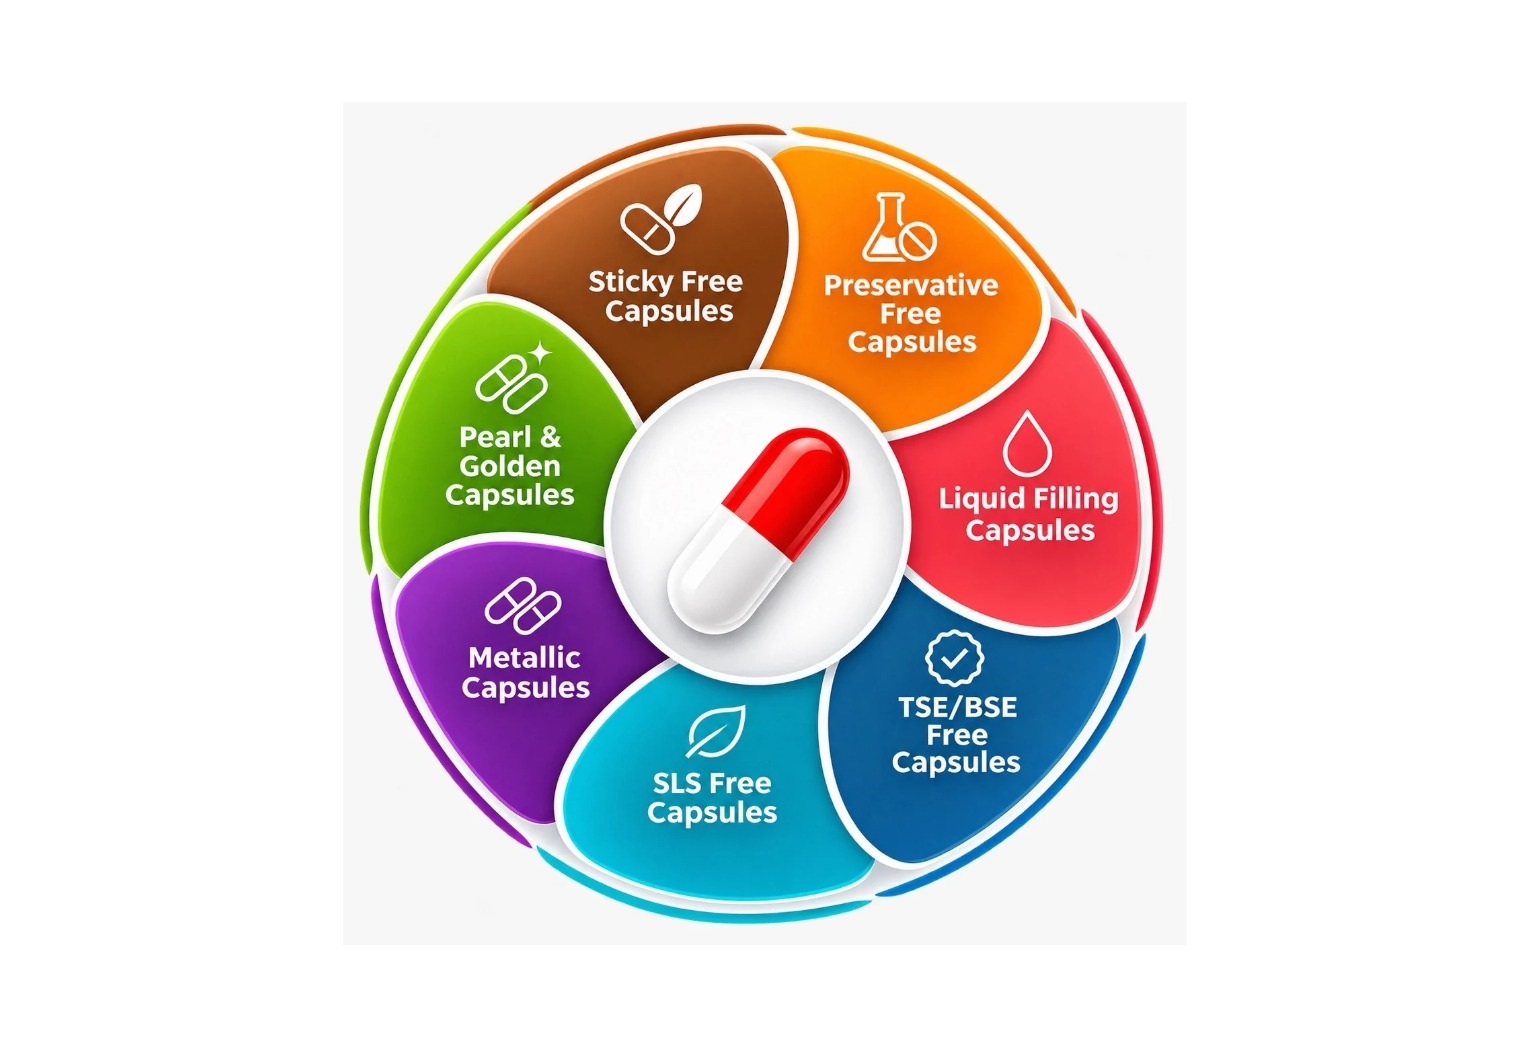
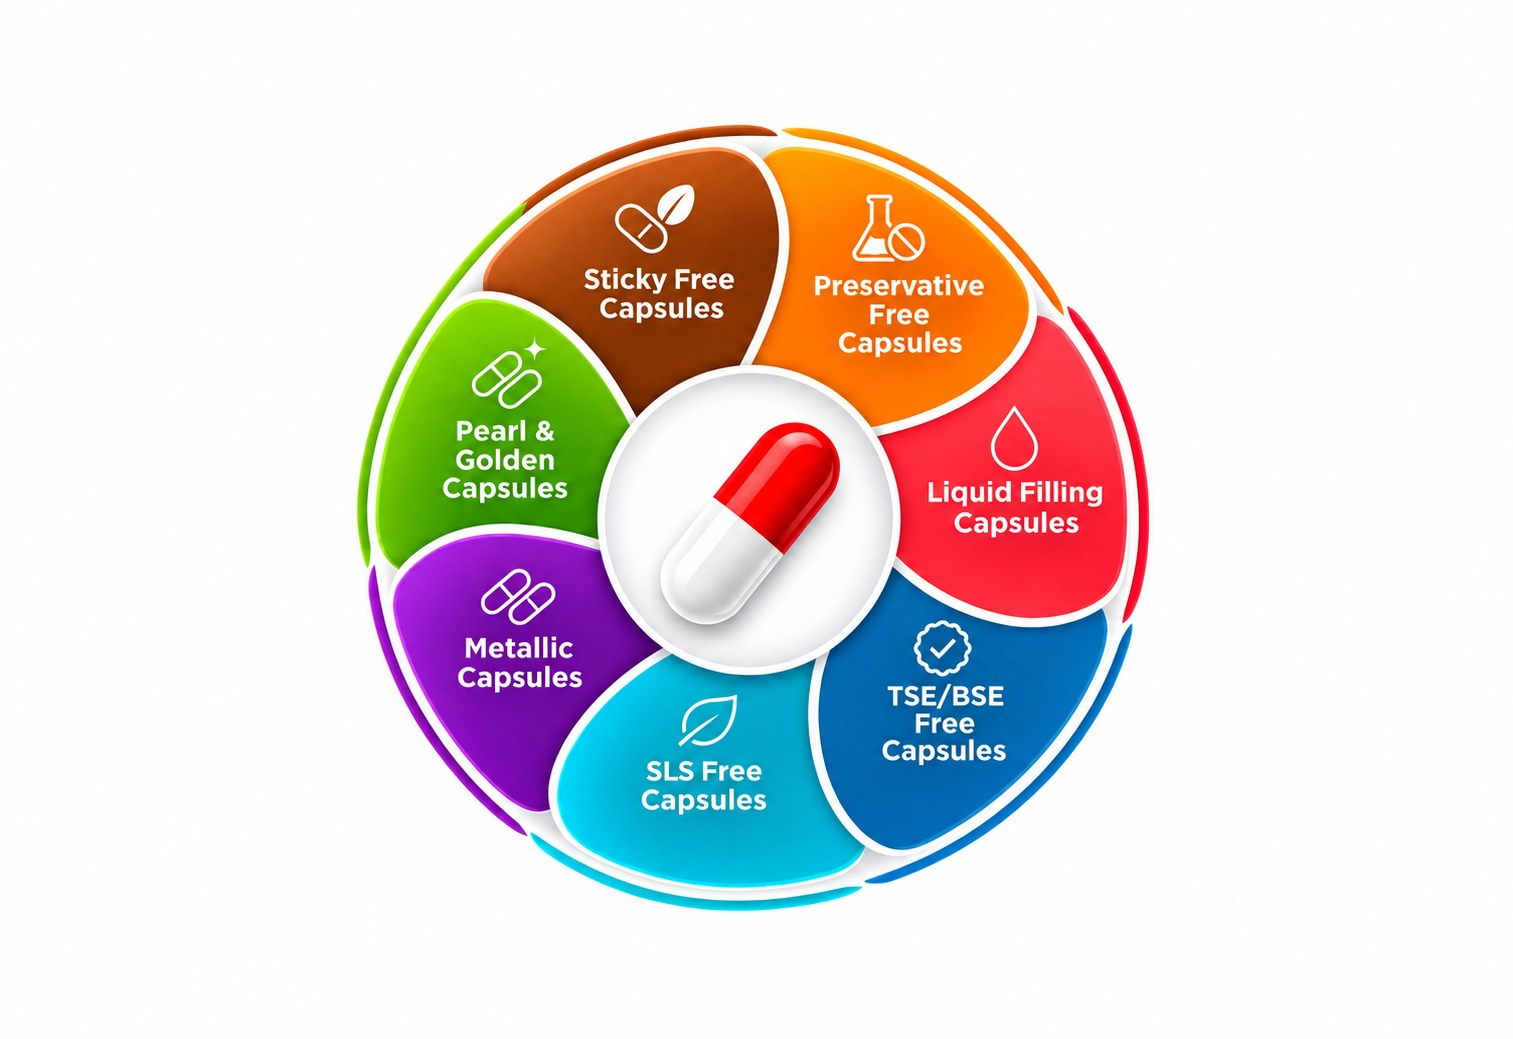
first commit

diff --git a/index-banner-4.html b/index-banner-4.html
@@ -499,7 +499,7 @@ requestAnimationFrame(tick);
           <div class="facility-video__overlay"></div>
 
           <!-- Center: Play Button with Direct YouTube Link -->
-          <a class="facility-video__play-link" href="https://www.youtube.com/watch?v=9Zb0B9ABYlw" data-open-modal="modalFacilityVideo" data-video-src="https://www.youtube.com/embed/9Zb0B9ABYlw?autoplay=1&rel=0" aria-label="Play Erawat Capsule Manufacturing Video">
+          <a class="facility-video__play-link" href="https://www.youtube.com/watch?v=9Zb0B9ABYlw" data-open-modal="modalFacilityVideo" data-video-src="https://www.youtube.com/embed/9Zb0B9ABYlw?si=NDvobKFWEKUeato7&autoplay=1" aria-label="Play Erawat Capsule Manufacturing Video">
             <span class="play-ripple" aria-hidden="true"></span>
             <span class="play-ripple play-ripple--2" aria-hidden="true"></span>
             <span class="play-btn-circle">
@@ -753,11 +753,7 @@ requestAnimationFrame(tick);
       <button type="button" class="modal-close-btn" data-close-modal aria-label="Close video modal">&times;</button>
       <h3 class="sr-only" id="facilityVideoModalTitle" style="position:absolute;width:1px;height:1px;overflow:hidden;clip:rect(0,0,0,0);white-space:nowrap;">Erawat Capsule Manufacturing Video</h3>
       <div class="video-modal__frame">
-        <iframe id="facilityVideoIframe" title="Erawat Pharma Limited — State-of-the-Art Capsule Manufacturing" src="" data-src="https://www.youtube.com/embed/9Zb0B9ABYlw?autoplay=1&rel=0" allow="accelerometer; autoplay; clipboard-write; encrypted-media; gyroscope; picture-in-picture; web-share" referrerpolicy="strict-origin-when-cross-origin" allowfullscreen></iframe>
-      </div>
-      <div class="video-modal__bar">
-        <span>Erawat Pharma Limited &mdash; Capsule Manufacturing Video</span>
-        <a class="video-modal__ext" href="https://www.youtube.com/watch?v=9Zb0B9ABYlw" target="_blank" rel="noopener noreferrer">Watch on YouTube &nearr;</a>
+        <iframe id="facilityVideoIframe" width="560" height="315" src="" data-src="https://www.youtube.com/embed/9Zb0B9ABYlw?si=NDvobKFWEKUeato7&autoplay=1" title="YouTube video player" frameborder="0" allow="accelerometer; autoplay; clipboard-write; encrypted-media; gyroscope; picture-in-picture; web-share" referrerpolicy="strict-origin-when-cross-origin" allowfullscreen></iframe>
       </div>
     </div>
   </div>

diff --git a/index-banner4.html b/index-banner4.html
@@ -499,7 +499,7 @@ requestAnimationFrame(tick);
           <div class="facility-video__overlay"></div>
 
           <!-- Center: Play Button with Direct YouTube Link -->
-          <a class="facility-video__play-link" href="https://www.youtube.com/watch?v=9Zb0B9ABYlw" data-open-modal="modalFacilityVideo" data-video-src="https://www.youtube.com/embed/9Zb0B9ABYlw?autoplay=1&rel=0" aria-label="Play Erawat Capsule Manufacturing Video">
+          <a class="facility-video__play-link" href="https://www.youtube.com/watch?v=9Zb0B9ABYlw" data-open-modal="modalFacilityVideo" data-video-src="https://www.youtube.com/embed/9Zb0B9ABYlw?si=NDvobKFWEKUeato7&autoplay=1" aria-label="Play Erawat Capsule Manufacturing Video">
             <span class="play-ripple" aria-hidden="true"></span>
             <span class="play-ripple play-ripple--2" aria-hidden="true"></span>
             <span class="play-btn-circle">
@@ -753,11 +753,7 @@ requestAnimationFrame(tick);
       <button type="button" class="modal-close-btn" data-close-modal aria-label="Close video modal">&times;</button>
       <h3 class="sr-only" id="facilityVideoModalTitle" style="position:absolute;width:1px;height:1px;overflow:hidden;clip:rect(0,0,0,0);white-space:nowrap;">Erawat Capsule Manufacturing Video</h3>
       <div class="video-modal__frame">
-        <iframe id="facilityVideoIframe" title="Erawat Pharma Limited — State-of-the-Art Capsule Manufacturing" src="" data-src="https://www.youtube.com/embed/9Zb0B9ABYlw?autoplay=1&rel=0" allow="accelerometer; autoplay; clipboard-write; encrypted-media; gyroscope; picture-in-picture; web-share" referrerpolicy="strict-origin-when-cross-origin" allowfullscreen></iframe>
-      </div>
-      <div class="video-modal__bar">
-        <span>Erawat Pharma Limited &mdash; Capsule Manufacturing Video</span>
-        <a class="video-modal__ext" href="https://www.youtube.com/watch?v=9Zb0B9ABYlw" target="_blank" rel="noopener noreferrer">Watch on YouTube &nearr;</a>
+        <iframe id="facilityVideoIframe" width="560" height="315" src="" data-src="https://www.youtube.com/embed/9Zb0B9ABYlw?si=NDvobKFWEKUeato7&autoplay=1" title="YouTube video player" frameborder="0" allow="accelerometer; autoplay; clipboard-write; encrypted-media; gyroscope; picture-in-picture; web-share" referrerpolicy="strict-origin-when-cross-origin" allowfullscreen></iframe>
       </div>
     </div>
   </div>

diff --git a/index-copy.html b/index-copy.html
@@ -488,7 +488,7 @@ requestAnimationFrame(tick);
           <div class="facility-video__overlay"></div>
 
           <!-- Center: Play Button with Direct YouTube Link -->
-          <a class="facility-video__play-link" href="https://www.youtube.com/watch?v=9Zb0B9ABYlw" data-open-modal="modalFacilityVideo" data-video-src="https://www.youtube.com/embed/9Zb0B9ABYlw?autoplay=1&rel=0" aria-label="Play Erawat Capsule Manufacturing Video">
+          <a class="facility-video__play-link" href="https://www.youtube.com/watch?v=9Zb0B9ABYlw" data-open-modal="modalFacilityVideo" data-video-src="https://www.youtube.com/embed/9Zb0B9ABYlw?si=NDvobKFWEKUeato7&autoplay=1" aria-label="Play Erawat Capsule Manufacturing Video">
             <span class="play-ripple" aria-hidden="true"></span>
             <span class="play-ripple play-ripple--2" aria-hidden="true"></span>
             <span class="play-btn-circle">
@@ -742,11 +742,7 @@ requestAnimationFrame(tick);
       <button type="button" class="modal-close-btn" data-close-modal aria-label="Close video modal">&times;</button>
       <h3 class="sr-only" id="facilityVideoModalTitle" style="position:absolute;width:1px;height:1px;overflow:hidden;clip:rect(0,0,0,0);white-space:nowrap;">Erawat Capsule Manufacturing Video</h3>
       <div class="video-modal__frame">
-        <iframe id="facilityVideoIframe" title="Erawat Pharma Limited — State-of-the-Art Capsule Manufacturing" src="" data-src="https://www.youtube.com/embed/9Zb0B9ABYlw?autoplay=1&rel=0" allow="accelerometer; autoplay; clipboard-write; encrypted-media; gyroscope; picture-in-picture; web-share" referrerpolicy="strict-origin-when-cross-origin" allowfullscreen></iframe>
-      </div>
-      <div class="video-modal__bar">
-        <span>Erawat Pharma Limited &mdash; Capsule Manufacturing Video</span>
-        <a class="video-modal__ext" href="https://www.youtube.com/watch?v=9Zb0B9ABYlw" target="_blank" rel="noopener noreferrer">Watch on YouTube &nearr;</a>
+        <iframe id="facilityVideoIframe" width="560" height="315" src="" data-src="https://www.youtube.com/embed/9Zb0B9ABYlw?si=NDvobKFWEKUeato7&autoplay=1" title="YouTube video player" frameborder="0" allow="accelerometer; autoplay; clipboard-write; encrypted-media; gyroscope; picture-in-picture; web-share" referrerpolicy="strict-origin-when-cross-origin" allowfullscreen></iframe>
       </div>
     </div>
   </div>

diff --git a/index.html b/index.html
@@ -3535,7 +3535,7 @@
               <div class="facility-video__overlay"></div>
 
               <!-- Center: Play Button with Direct YouTube Link -->
-              <a class="facility-video__play-link" href="https://www.youtube.com/watch?v=9Zb0B9ABYlw" data-open-modal="modalFacilityVideo" data-video-src="https://www.youtube.com/embed/9Zb0B9ABYlw?autoplay=1&rel=0" aria-label="Play Erawat Capsule Manufacturing Video">
+              <a class="facility-video__play-link" href="https://www.youtube.com/watch?v=9Zb0B9ABYlw" data-open-modal="modalFacilityVideo" data-video-src="https://www.youtube.com/embed/9Zb0B9ABYlw?si=NDvobKFWEKUeato7&autoplay=1" aria-label="Play Erawat Capsule Manufacturing Video">
                 <span class="play-ripple" aria-hidden="true"></span>
                 <span class="play-ripple play-ripple--2" aria-hidden="true"></span>
                 <span class="play-btn-circle">
@@ -3871,11 +3871,7 @@
       <button type="button" class="modal-close-btn" data-close-modal aria-label="Close video modal">&times;</button>
       <h3 class="sr-only" id="facilityVideoModalTitle" style="position:absolute;width:1px;height:1px;overflow:hidden;clip:rect(0,0,0,0);white-space:nowrap;">Erawat Capsule Manufacturing Video</h3>
       <div class="video-modal__frame">
-        <iframe id="facilityVideoIframe" title="Erawat Pharma Limited — State-of-the-Art Capsule Manufacturing" src="" data-src="https://www.youtube.com/embed/9Zb0B9ABYlw?autoplay=1&rel=0" allow="accelerometer; autoplay; clipboard-write; encrypted-media; gyroscope; picture-in-picture; web-share" referrerpolicy="strict-origin-when-cross-origin" allowfullscreen></iframe>
-      </div>
-      <div class="video-modal__bar">
-        <span>Erawat Pharma Limited &mdash; Capsule Manufacturing Video</span>
-        <a class="video-modal__ext" href="https://www.youtube.com/watch?v=9Zb0B9ABYlw" target="_blank" rel="noopener noreferrer">Watch on YouTube &nearr;</a>
+        <iframe id="facilityVideoIframe" width="560" height="315" src="" data-src="https://www.youtube.com/embed/9Zb0B9ABYlw?si=NDvobKFWEKUeato7&autoplay=1" title="YouTube video player" frameborder="0" allow="accelerometer; autoplay; clipboard-write; encrypted-media; gyroscope; picture-in-picture; web-share" referrerpolicy="strict-origin-when-cross-origin" allowfullscreen></iframe>
       </div>
     </div>
   </div>

diff --git a/index-banner-4.php b/index-banner-4.php
@@ -499,7 +499,7 @@ requestAnimationFrame(tick);
           <div class="facility-video__overlay"></div>
 
           <!-- Center: Play Button with Direct YouTube Link -->
-          <a class="facility-video__play-link" href="https://www.youtube.com/watch?v=9Zb0B9ABYlw" data-open-modal="modalFacilityVideo" data-video-src="https://www.youtube.com/embed/9Zb0B9ABYlw?autoplay=1&rel=0" aria-label="Play Erawat Capsule Manufacturing Video">
+          <a class="facility-video__play-link" href="https://www.youtube.com/watch?v=9Zb0B9ABYlw" data-open-modal="modalFacilityVideo" data-video-src="https://www.youtube.com/embed/9Zb0B9ABYlw?si=NDvobKFWEKUeato7&autoplay=1" aria-label="Play Erawat Capsule Manufacturing Video">
             <span class="play-ripple" aria-hidden="true"></span>
             <span class="play-ripple play-ripple--2" aria-hidden="true"></span>
             <span class="play-btn-circle">
@@ -753,11 +753,7 @@ requestAnimationFrame(tick);
       <button type="button" class="modal-close-btn" data-close-modal aria-label="Close video modal">&times;</button>
       <h3 class="sr-only" id="facilityVideoModalTitle" style="position:absolute;width:1px;height:1px;overflow:hidden;clip:rect(0,0,0,0);white-space:nowrap;">Erawat Capsule Manufacturing Video</h3>
       <div class="video-modal__frame">
-        <iframe id="facilityVideoIframe" title="Erawat Pharma Limited — State-of-the-Art Capsule Manufacturing" src="" data-src="https://www.youtube.com/embed/9Zb0B9ABYlw?autoplay=1&rel=0" allow="accelerometer; autoplay; clipboard-write; encrypted-media; gyroscope; picture-in-picture; web-share" referrerpolicy="strict-origin-when-cross-origin" allowfullscreen></iframe>
-      </div>
-      <div class="video-modal__bar">
-        <span>Erawat Pharma Limited &mdash; Capsule Manufacturing Video</span>
-        <a class="video-modal__ext" href="https://www.youtube.com/watch?v=9Zb0B9ABYlw" target="_blank" rel="noopener noreferrer">Watch on YouTube &nearr;</a>
+        <iframe id="facilityVideoIframe" width="560" height="315" src="" data-src="https://www.youtube.com/embed/9Zb0B9ABYlw?si=NDvobKFWEKUeato7&autoplay=1" title="YouTube video player" frameborder="0" allow="accelerometer; autoplay; clipboard-write; encrypted-media; gyroscope; picture-in-picture; web-share" referrerpolicy="strict-origin-when-cross-origin" allowfullscreen></iframe>
       </div>
     </div>
   </div>

diff --git a/index.php b/index.php
@@ -3557,7 +3557,7 @@
               <div class="facility-video__overlay"></div>
 
               <!-- Center: Play Button with Direct YouTube Link -->
-              <a class="facility-video__play-link" href="https://www.youtube.com/watch?v=9Zb0B9ABYlw" data-open-modal="modalFacilityVideo" data-video-src="https://www.youtube.com/embed/9Zb0B9ABYlw?autoplay=1&rel=0" aria-label="Play Erawat Capsule Manufacturing Video">
+              <a class="facility-video__play-link" href="https://www.youtube.com/watch?v=9Zb0B9ABYlw" data-open-modal="modalFacilityVideo" data-video-src="https://www.youtube.com/embed/9Zb0B9ABYlw?si=NDvobKFWEKUeato7&autoplay=1" aria-label="Play Erawat Capsule Manufacturing Video">
                 <span class="play-ripple" aria-hidden="true"></span>
                 <span class="play-ripple play-ripple--2" aria-hidden="true"></span>
                 <span class="play-btn-circle">
@@ -3893,11 +3893,7 @@
       <button type="button" class="modal-close-btn" data-close-modal aria-label="Close video modal">&times;</button>
       <h3 class="sr-only" id="facilityVideoModalTitle" style="position:absolute;width:1px;height:1px;overflow:hidden;clip:rect(0,0,0,0);white-space:nowrap;">Erawat Capsule Manufacturing Video</h3>
       <div class="video-modal__frame">
-        <iframe id="facilityVideoIframe" title="Erawat Pharma Limited — State-of-the-Art Capsule Manufacturing" src="" data-src="https://www.youtube.com/embed/9Zb0B9ABYlw?autoplay=1&rel=0" allow="accelerometer; autoplay; clipboard-write; encrypted-media; gyroscope; picture-in-picture; web-share" referrerpolicy="strict-origin-when-cross-origin" allowfullscreen></iframe>
-      </div>
-      <div class="video-modal__bar">
-        <span>Erawat Pharma Limited &mdash; Capsule Manufacturing Video</span>
-        <a class="video-modal__ext" href="https://www.youtube.com/watch?v=9Zb0B9ABYlw" target="_blank" rel="noopener noreferrer">Watch on YouTube &nearr;</a>
+        <iframe id="facilityVideoIframe" width="560" height="315" src="" data-src="https://www.youtube.com/embed/9Zb0B9ABYlw?si=NDvobKFWEKUeato7&autoplay=1" title="YouTube video player" frameborder="0" allow="accelerometer; autoplay; clipboard-write; encrypted-media; gyroscope; picture-in-picture; web-share" referrerpolicy="strict-origin-when-cross-origin" allowfullscreen></iframe>
       </div>
     </div>
   </div>
